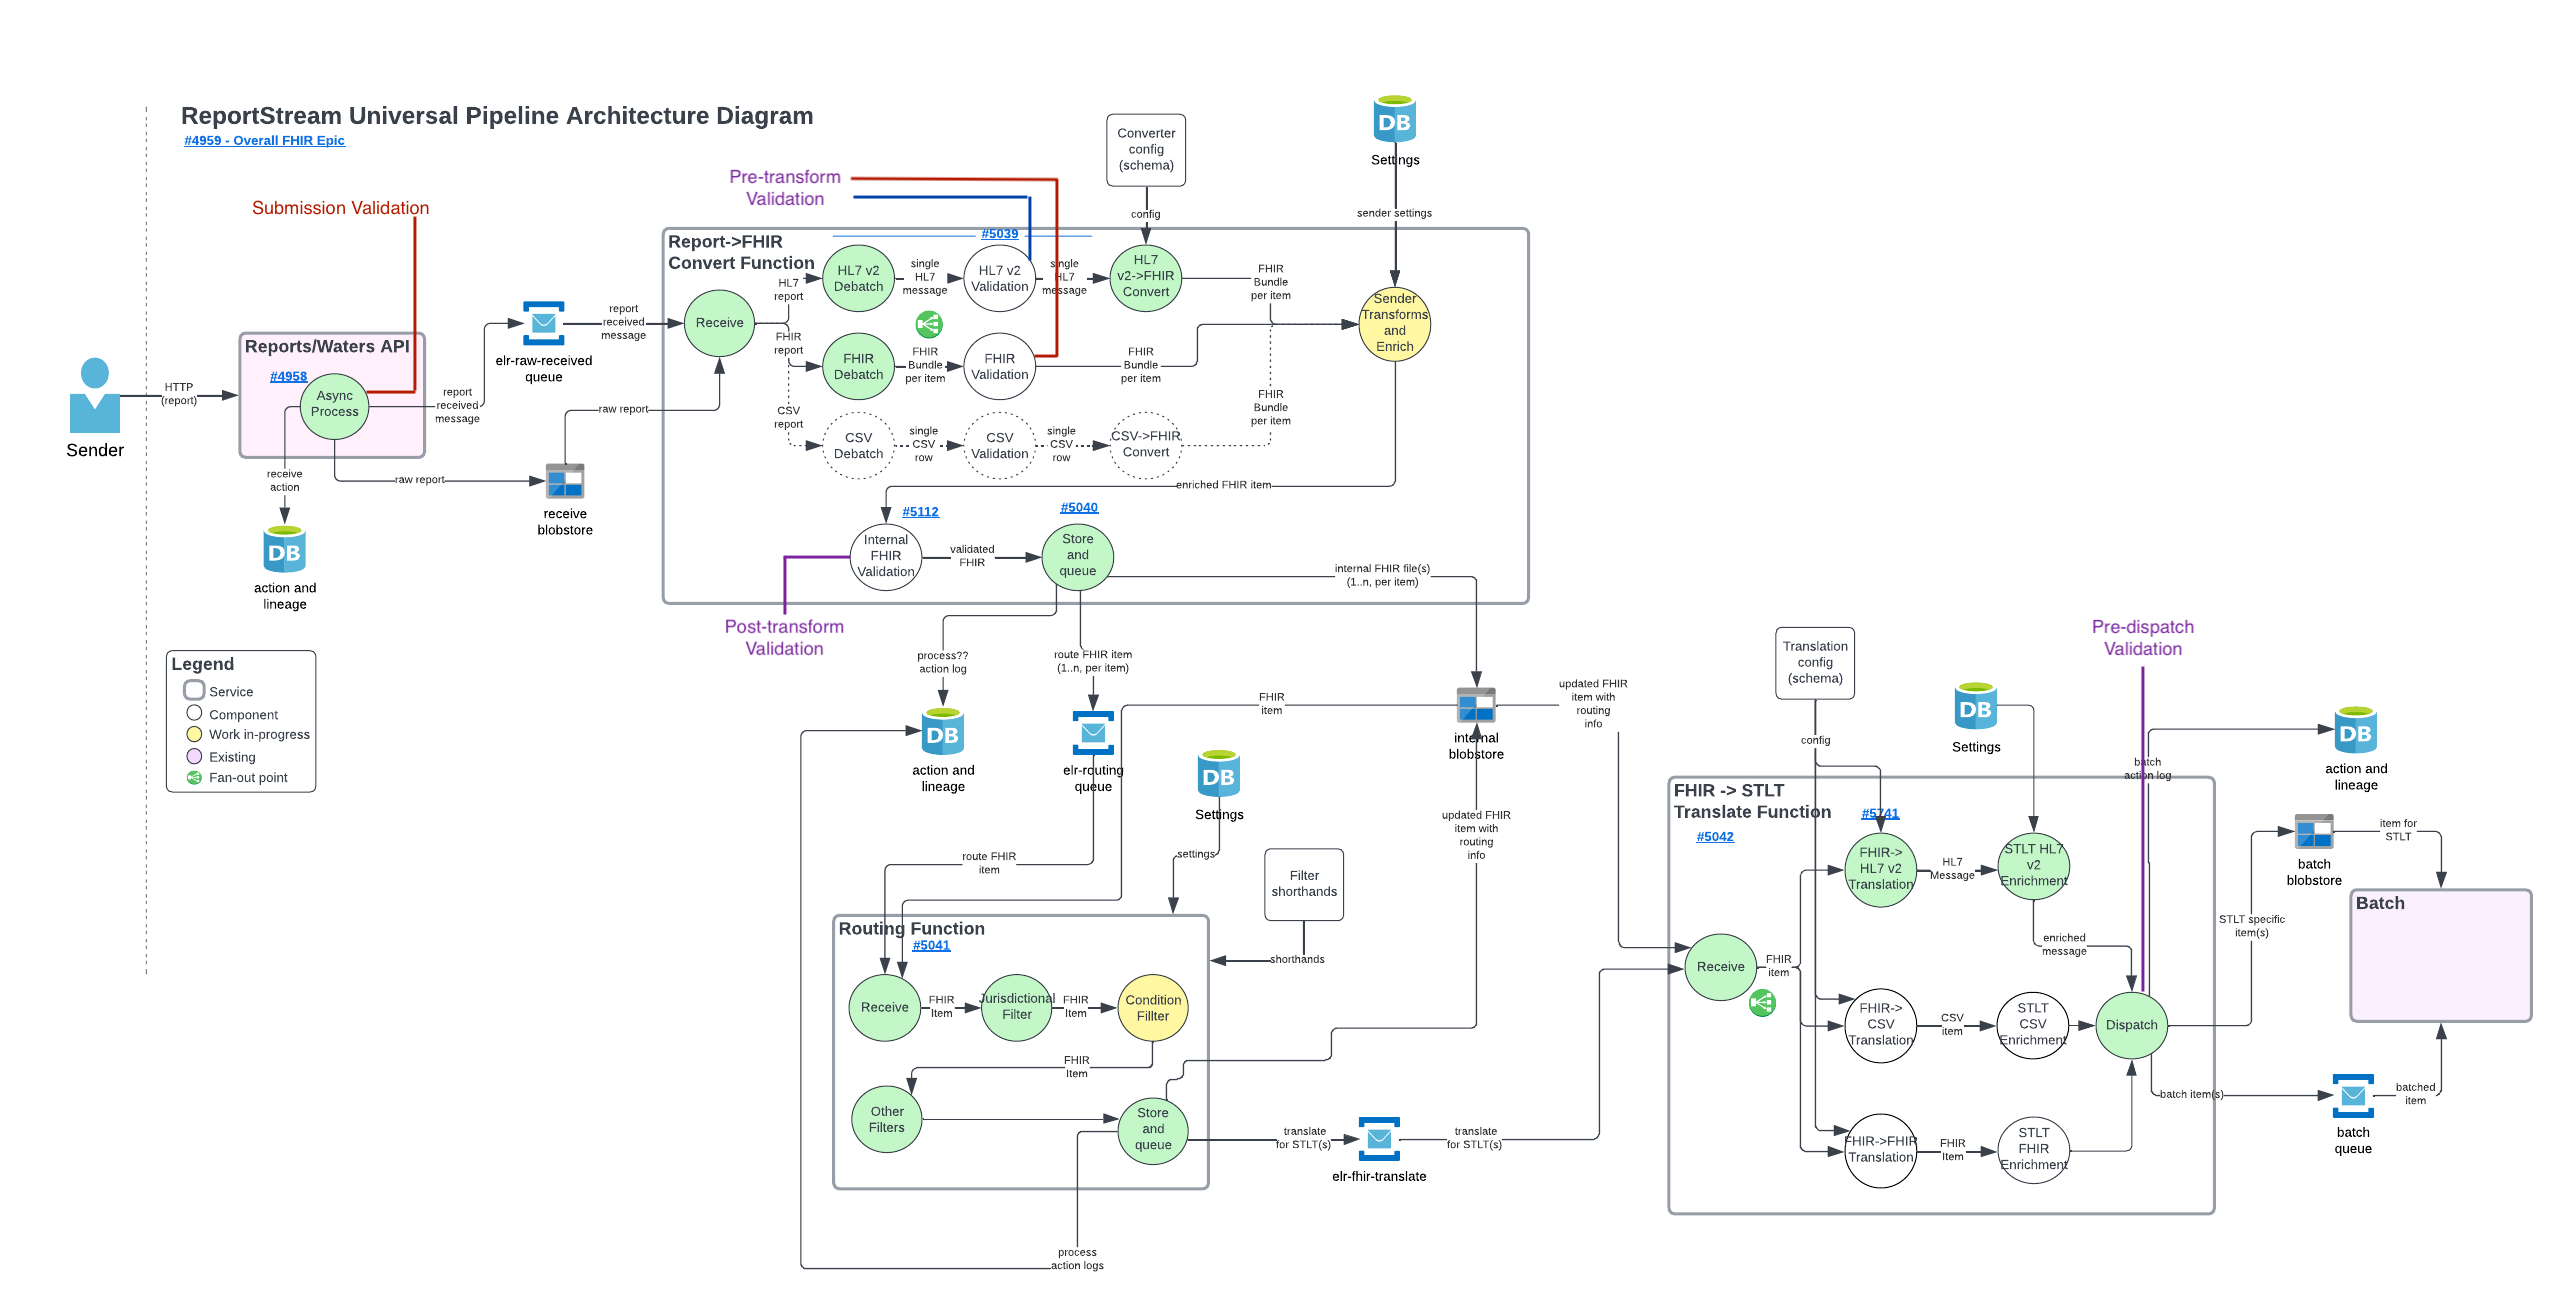
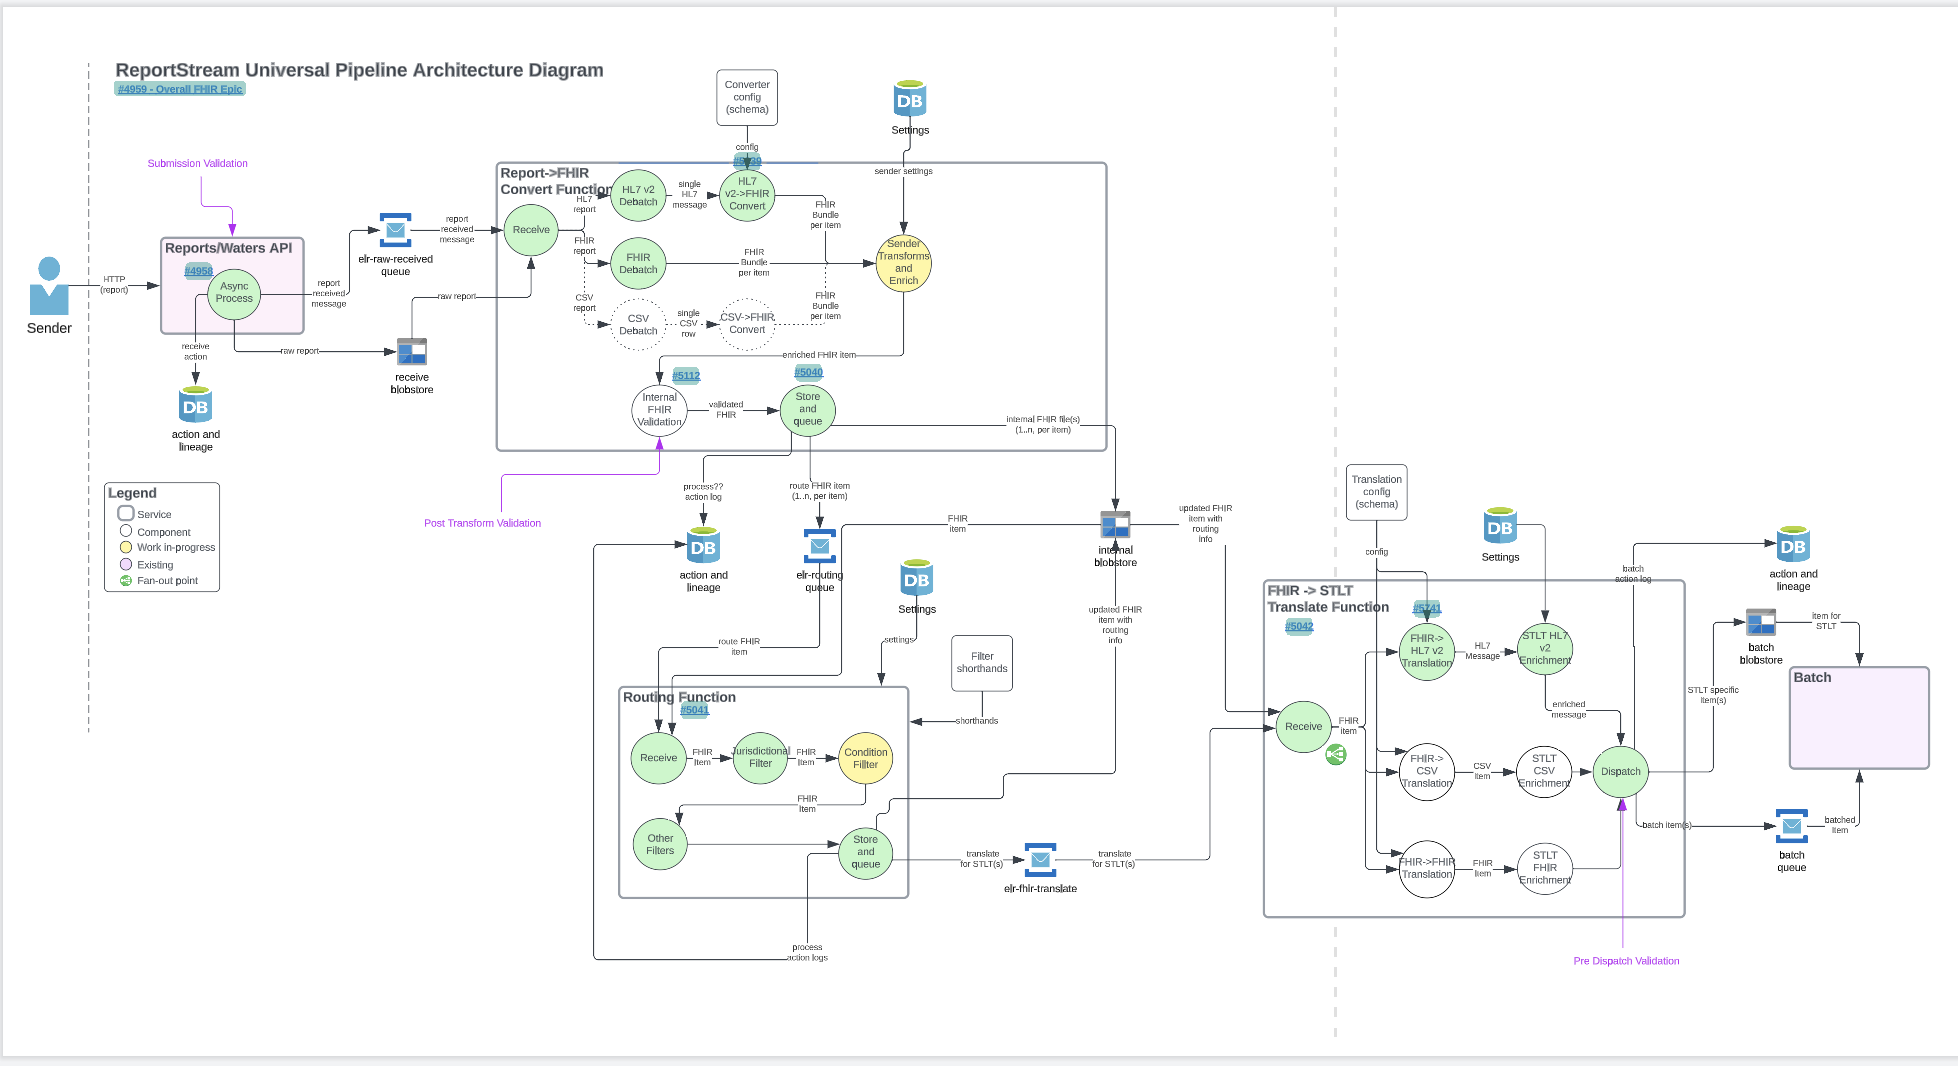
Updated the doc and diagram to reflect option 1 which we are going to do as an MVP

diff --git a/prime-router/docs/design/validation/design.md b/prime-router/docs/design/validation/design.md
@@ -9,7 +9,6 @@ The diagram below proposes four validation "checkpoints":
 | Name           | Description + Location                                              | Purpose                                                                                                        |
 |----------------|---------------------------------------------------------------------|----------------------------------------------------------------------------------------------------------------|
 | Submission     | Upon receipt of a submission in the SenderReceiver                  | Ensure data is parseable (i.e. not a png or other garbage data)                                                |
-| Pre-transform  | Per bundle after de-batch in the convert function                   | Ensure data is ready for transformation (i.e. satisfies the validation profile configured for this sender)     |
 | Post-transform | After sender transforms and enrichment in the convert function      | Ensure data is valid after transformation (i.e. satisfies the validation profile configured for this sender)   | 
 | Pre-dispatch   | After receiver translation and enrichment in the translate function | Ensure data is valid after transformation (i.e. satisfies the validation profile configured for this receiver) | 
 
@@ -22,17 +21,11 @@ This is where they are located in the overall system:
 For FHIR, we currently use an `IParser` instance to parse and read some metadata. By default, the IParser performs some
 validation and raises warnings or errors (depending on how its configured). We need to investigate how the instance is
 currently configured and ensure it is performing validation. Ideally this configuration will be universal or binary
-(validation on/off vs different types) for all senders.
-
-This step will be a no-op for HL7.
-
-#### Pre transform
-Before we apply sender transforms and enrichment, we need to ensure that bundles contain sane data for its origin.
-We should also ensure any prerequisites (e.g. field, value, format) for transform/enrichment is satisfied. Further 
-validation is still necessary as the assembled bundle may still be missing data that will be added.
+(validation on/off vs different types) for all senders. For HL7 V2, we will use the HAPI library as it is currently 
+being used in the Covid pipeline
 
 #### Post transform
-Will occur during the convert function, after receiving and debatch, and before the convert step. We again need to 
+Will occur after transformation so that we can massage the data to meet any IG that may be requested. We again need to 
 ensure that all necessary data exists and is sane. This will happen for both HL7 and FHIR data. One final validation will
 be needed (per receiver) after applying receiver transforms and enrichment.
 
@@ -61,7 +54,7 @@ When a message fails validation, validation errors should show up in:
     - ReportStream is responsible for issue triage
 - Notify the sender immediately in API response if parse validation fails
 
-#### Shared tickets
+#### Ticketed Work
 See the validation epic (#8973) for related tickets
 
 ### FHIR Validation
